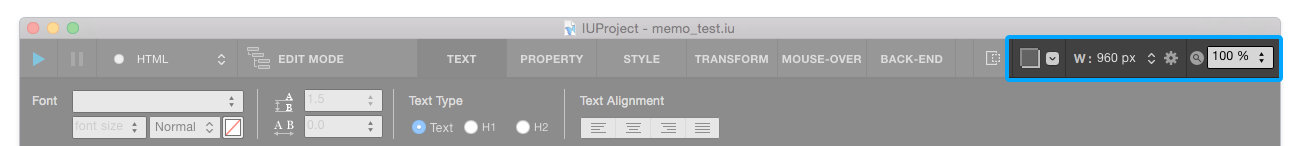
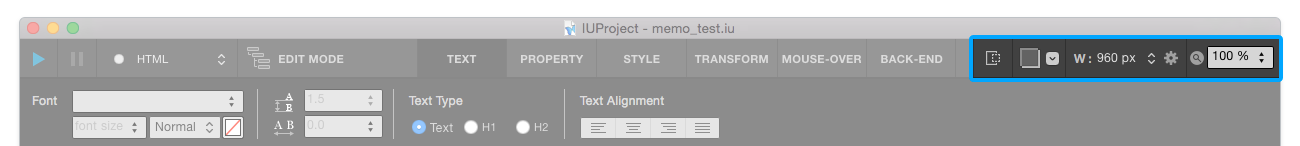
update stage view content

Changed region(s): [[0.7385, 0.2192, 0.8, 0.5753]]

diff --git a/basic_top_toolbar.rst b/basic_top_toolbar.rst
@@ -7,7 +7,7 @@
 
 .. image:: resource/iu_manual_top_toolbar.png
 
-상단 툴바는 **커맨드 / 탭 메뉴 / 트레이싱 / 페이지설정 / 줌** 영역으로 구분됩니다.
+상단 툴바는 **커맨드 / 탭 메뉴 / 스테이지** 영역으로 구분됩니다.
 
 
 ----------
@@ -102,22 +102,14 @@
 .. image:: resource/iu_manual_top_toolbar_TQZ.png
 
 
-트레이싱 Tracing
+스테이지 Stage
 -------------
 
-트레이싱은 디자인 이미지를 스테이지 배경에 추가하여, 좀 더 빠른 작업이 가능하도록 도와줍니다. 트레이싱 아이콘을 눌러 트레이싱 모드를 on/off 시킬 수 있으며, 트레이싱 이미지 팝업에서 좀 더 세세한 조정이 가능합니다. 
 
+* ``고정 위젯 숨김 버튼 Fixed Widget Show / Hide button`` : 포지션 속성이 **고정 Fixed** 인 위젯을 스테이지에서 감출 수 있는 기능입니다.
 
-페이지 설정 Page Setting
---------------------
+* ``트레이싱 Tracing`` : 트레이싱은 디자인 이미지를 스테이지 배경에 추가하여, 좀 더 빠른 작업이 가능하도록 도와줍니다. 트레이싱 아이콘을 눌러 트레이싱 모드를 on/off 시킬 수 있으며, 트레이싱 이미지 팝업에서 좀 더 세세한 조정이 가능합니다. 
 
-현재 작업 중인 페이지의 **너비 / 미디어쿼리** 등을 변경합니다. 
+* ``페이지 설정 Page Setting`` : 현재 작업 중인 페이지의 **너비 / 미디어쿼리** 등을 변경합니다. (미디어 쿼리 팝업을 열어 새로운 쿼리를 생성하거나, 기존 미디어쿼리를 복사하여 생성할 수도 있습니다. )
 
-* ``너비 Width`` : 페이지의 너비 값을 설정합니다. 미디어쿼리 팝업에서 정의된 너비값만 사용 가능합니다.
-* ``미디어 쿼리 Media Query`` : 페이지의 미디어쿼리 값을 설정합니다. 새로운 레이아웃으로 생성하거나, 기존 미디어쿼리 레이아웃을 복사하여 생성할 수도 있습니다. 
-
-
-줌 Zoom
-------
-
-작업 중인 페이지의 **줌-인/아웃** 을 설정합니다.
+* ``줌 Zoom`` : 작업 중인 페이지의 **줌-인/아웃** 을 설정합니다.
